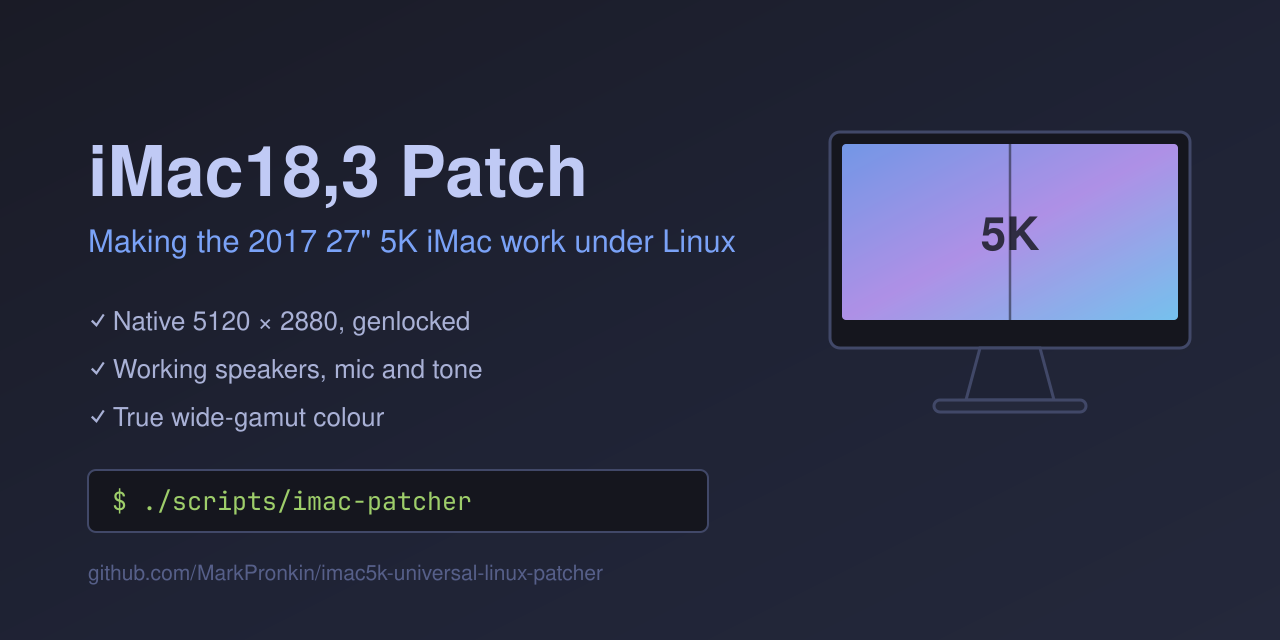
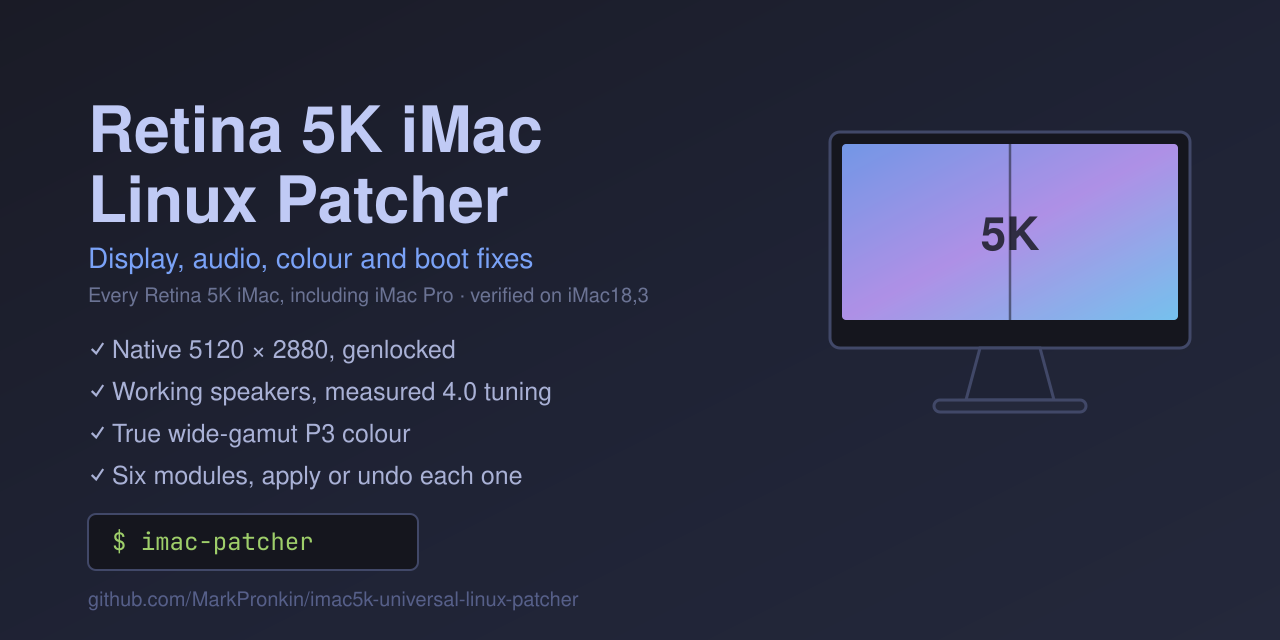
Say what the patcher is now in the social preview
The card still announced a single-model 2017 patch run from a clone. Name
the patch manager, its model coverage and where it is actually verified,
and show the installed command.

Claude-Session: https://claude.ai/code/session_01EQm1RhBqjtqRxayoeB1ZSU

Changed region(s): [[0.0625, 0.1562, 0.5625, 0.9688], [0.4688, 0.7812, 0.5625, 0.8438]]

diff --git a/README.md b/README.md
@@ -1,6 +1,6 @@
 # 🖥 Retina 5K iMac Linux Patcher
 
-![iMac Linux patches — display, audio and colour](.github/social-preview.png)
+![Retina 5K iMac Linux Patcher — display, audio, colour and boot fixes, applied module by module](.github/social-preview.png)
 
 **A Linux patch manager for every Retina 5K iMac model, including iMac Pro.**
 
